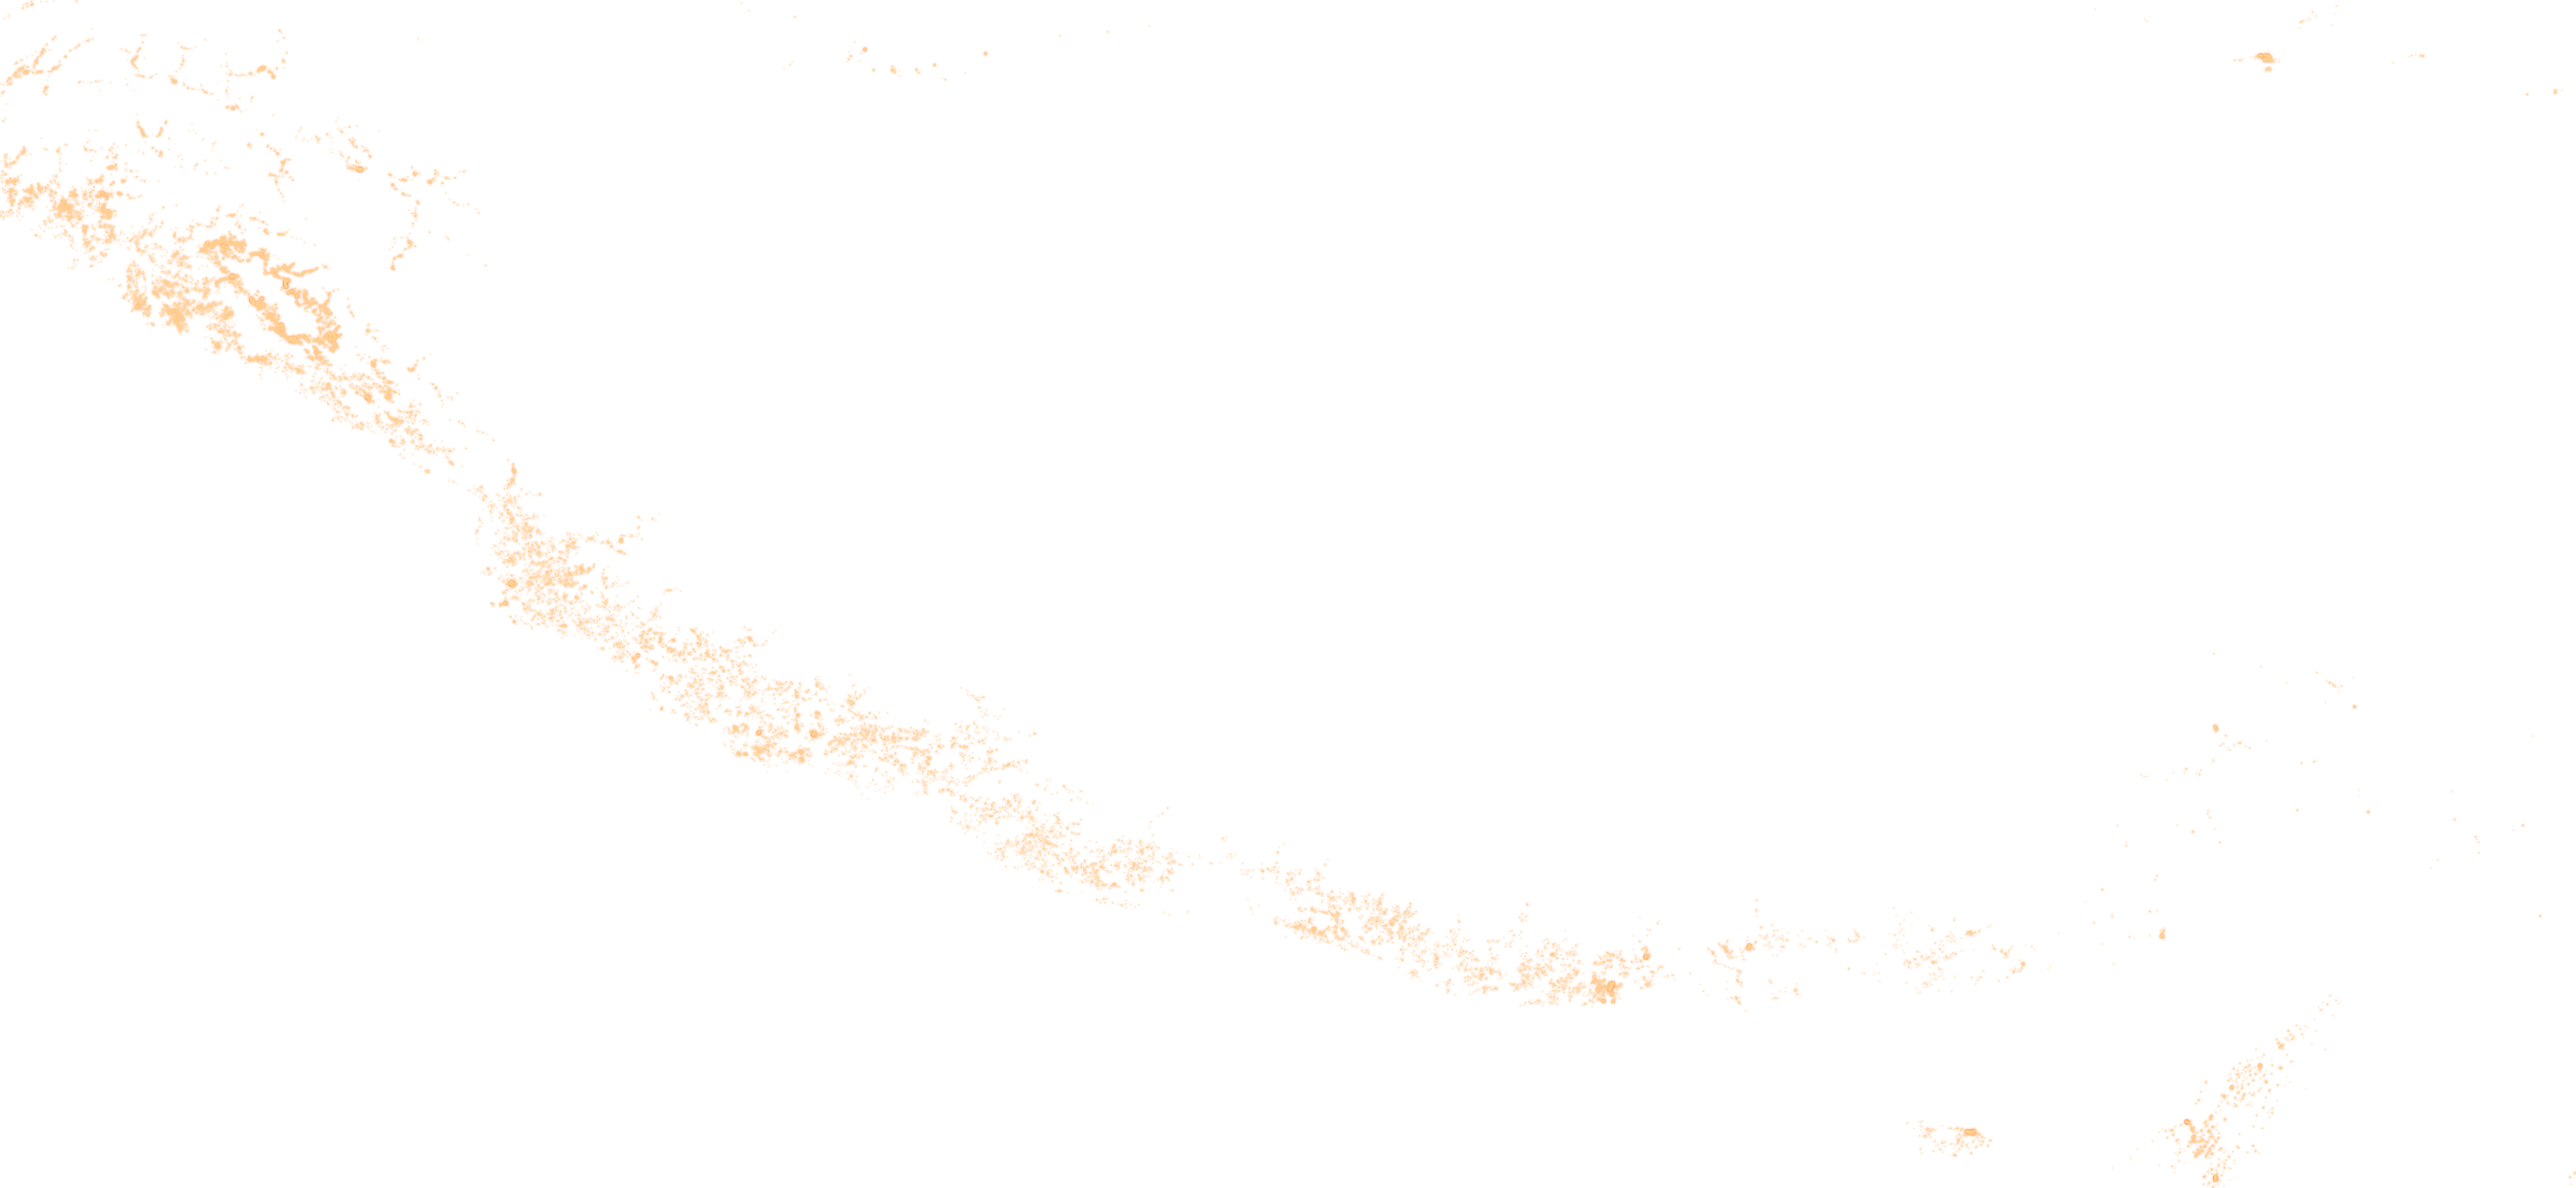
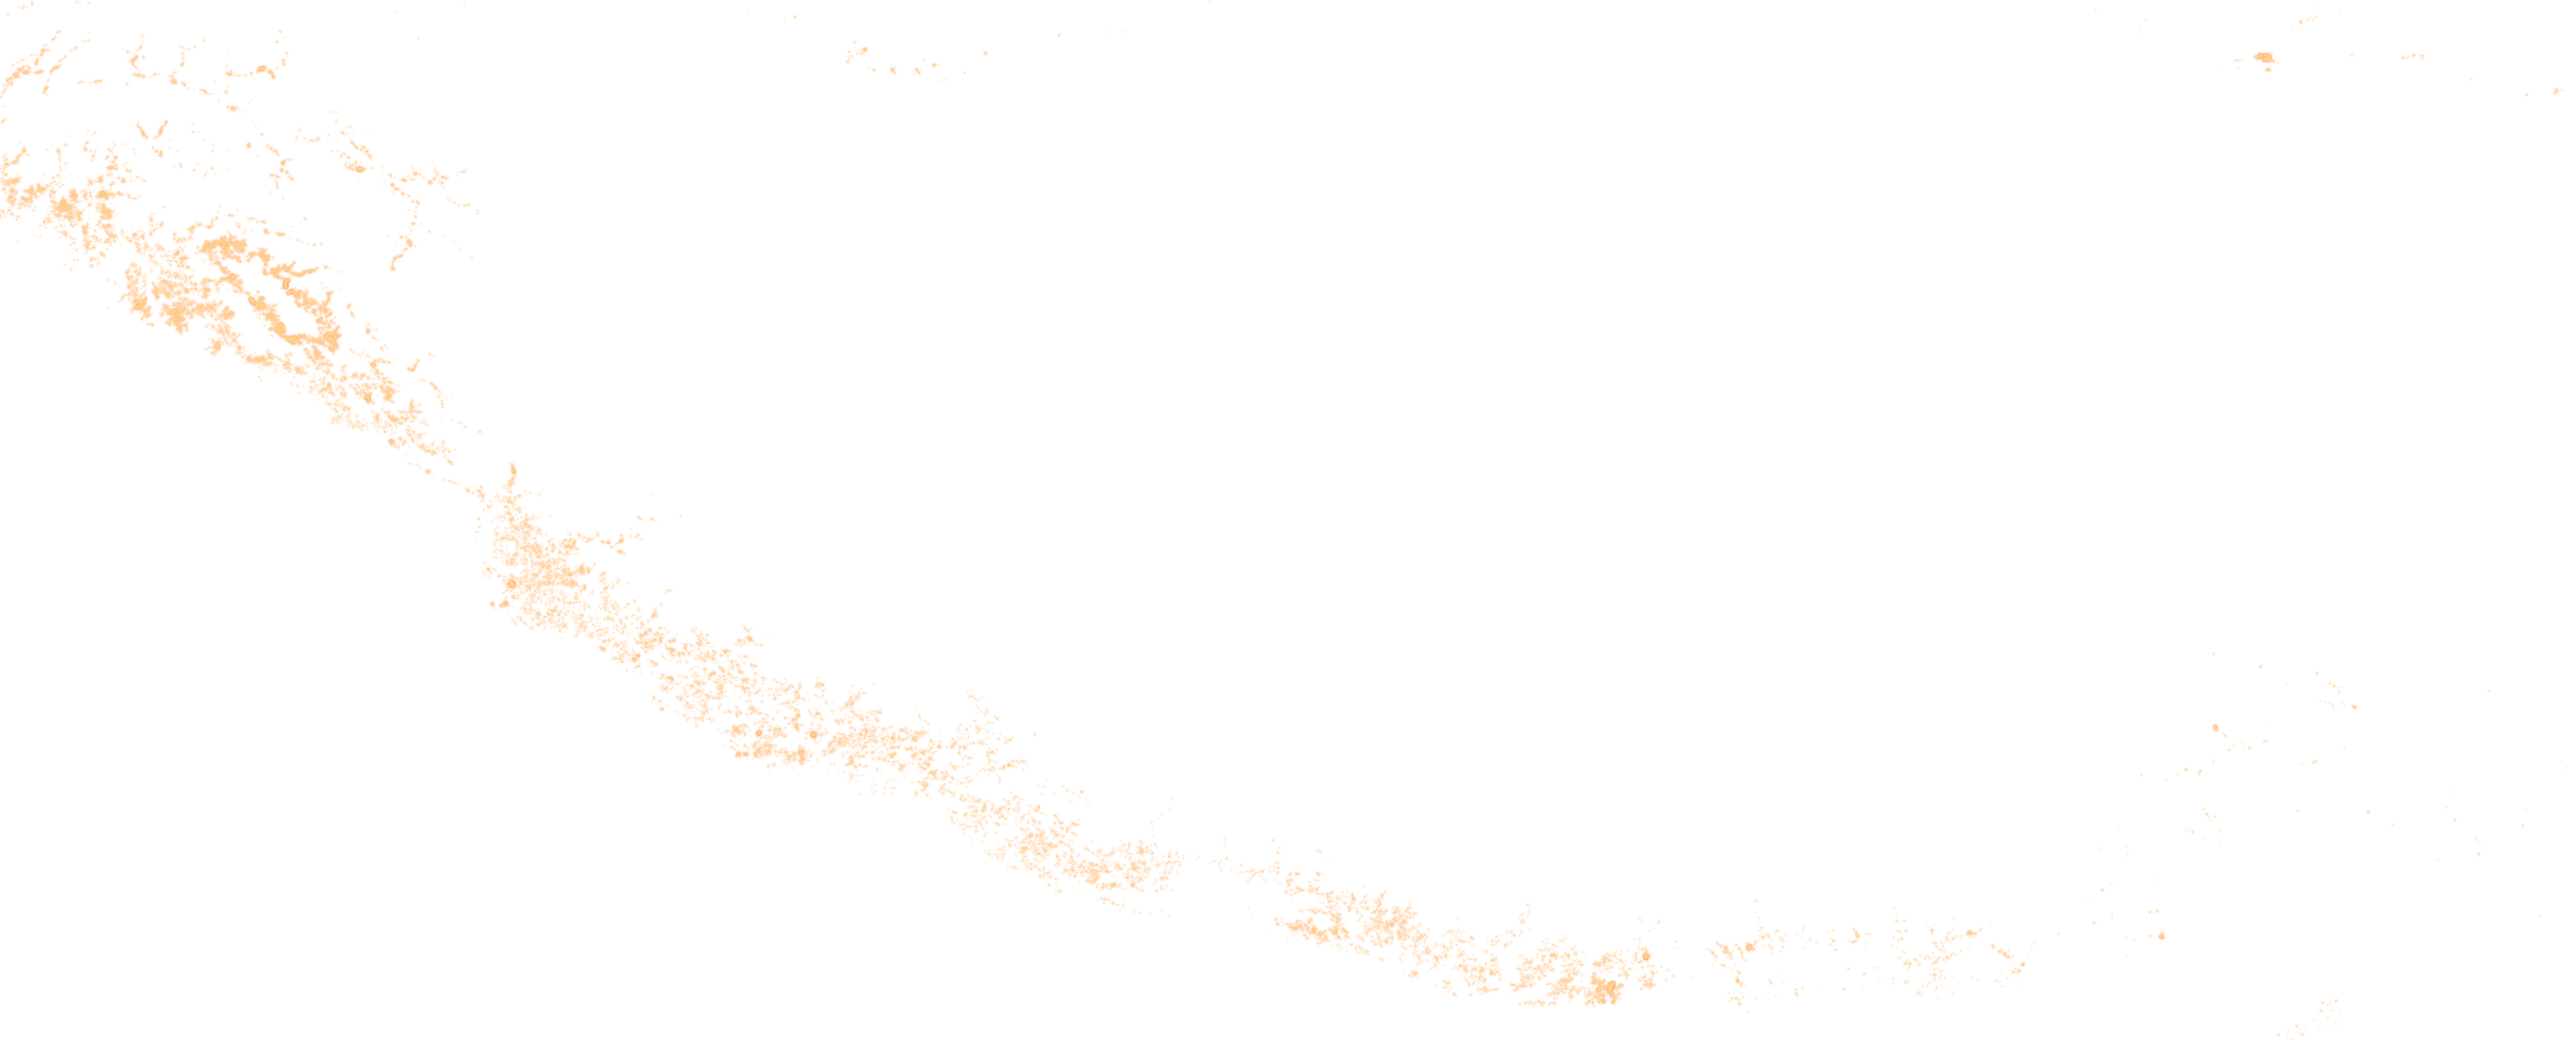
Lamplight's night reaches the plains' south and west, so it fades where lights are sparse [skip ci]
The land picture now covers 70-97E, 23-37N and fades into the globe's own night over 2 degrees in the
west and south and 3 in the east and north: the plains' 500 m lights meet the globe's softer ones
gradually instead of across the Gangetic plain, and the close-up picture's edges lie inside it. The
lamps and the alpenglow keep to the Himalaya (72-98E, 26.5-37N; west of 77.5E north of 29.5N).

Claude-Session: https://claude.ai/code/session_01BAtsk87vtwCYG5dwYz2JNR

diff --git a/Prototypes/lamplight/bounds.js b/Prototypes/lamplight/bounds.js
@@ -1,2 +1,2 @@
 // written by tools/lamplight/build.py: each picture's [west, south, east, north]
-window.LAMPLIGHT_BOUNDS = {"crown": [74.0, 27.0, 89.0, 36.5], "detail": [77.5, 26.3, 92.5, 31.5], "glow": [72.0, 25.0, 98.0, 37.0], "lamps-1": [72.0, 25.0, 98.0, 37.0], "lamps-2": [72.0, 25.0, 98.0, 37.0], "lamps-3": [72.0, 25.0, 98.0, 37.0], "land": [72.0, 25.0, 98.0, 37.0], "pool": [60.0, 12.0, 109.0, 49.0]};
+window.LAMPLIGHT_BOUNDS = {"crown": [74.0, 27.0, 89.0, 36.5], "detail": [77.5, 26.3, 92.5, 31.5], "glow": [72.0, 26.5, 98.0, 37.0], "lamps-1": [72.0, 26.5, 98.0, 37.0], "lamps-2": [72.0, 26.5, 98.0, 37.0], "lamps-3": [72.0, 26.5, 98.0, 37.0], "land": [70.0, 23.0, 97.0, 37.0], "pool": [60.0, 12.0, 109.0, 49.0]};

diff --git a/tools/lamplight/build.py b/tools/lamplight/build.py
@@ -11,14 +11,16 @@ couldn't. Every picture is drawn in Globe.metal's N_ palette, so it lies on the 
 of it, and on its own equirectangular grid (each column the same span of longitude, each row the same
 span of latitude), as terra.images draws it; the bounds go to Prototypes/lamplight/bounds.js.
 
-  land.jpg + land-alpha    72-98E, 25-37N, 1/150 degree (about 700 m): the land in N_LAND shaded by
+  land.png     70-97E, 23-37N, 1/150 degree (about 700 m): the land in N_LAND shaded by
                moonlight from the south-west (Copernicus GLO-90), snow above about 5100 m lit by it,
                lakes in N_SEA, and NASA's Black Marble 2016 lights (500 m) as the night style draws its
                own (Globe.metal: pow(light, 0.75) towards N_LIGHT, the brightest towards N_CORE). Its
-               edges fade over 4 degrees into the globe's own night (land.png carries the alpha).
+               edges fade into the globe's own night, over 2 degrees in the west and south, 3 in the
+               east and north, so the plains' crisp lights meet the globe's softer ones gradually.
   lamps-1.png  lamps where people live in the hills and mountains (GHSL's population, 2020) below 1500
-  lamps-2.png  m, 1500-3000 m, and above 3000 m: 1/120 degree over the same box. Drawn as an atlas draws
-  lamps-3.png  population, a dot for every 150 people where they live; these pictures from further off
+  lamps-2.png  m, 1500-3000 m, and above 3000 m: 1/120 degree over the Himalaya (72-98E, 26.5-37N, and
+  lamps-3.png  west of 77.5E north of 29.5N: not the Aravallis). Drawn as an atlas draws population, a
+               dot for every 150 people where they live; these pictures from further off
                hold a quarter of them, and the detail all of them, so coming closer lights more. The
                satellite sees the plains' lights and almost none of the hills': these are drawn. The
                plains are left to it (a
@@ -55,7 +57,9 @@ BM = 'https://eoimages.gsfc.nasa.gov/images/imagerecords/144000/'
 DEM = 'https://copernicus-dem-90m.s3.amazonaws.com/'
 GHSL = ('https://jeodpp.jrc.ec.europa.eu/ftp/jrc-opendata/GHSL/GHS_POP_GLOBE_R2023A/'
         'GHS_POP_E2020_GLOBE_R2023A_4326_3ss/V1-0/tiles/')
-BOX = (72.0, 25.0, 98.0, 37.0)            # where the elevation model and the people are read
+LAND = (70.0, 23.0, 97.0, 37.0)           # where the night is drawn closer (the elevation model's reach)
+LAND_FADE = (2.0, 2.0, 3.0, 3.0)          # how far its edges fade into the globe's night: W, S, E, N
+BOX = (72.0, 26.5, 98.0, 37.0)            # the Himalaya: where the lamps and the alpenglow are
 DETAIL = (77.5, 26.3, 92.5, 31.5)
 CROWN = (74.0, 27.0, 89.0, 36.5)          # every peak above 7000 m in the box
 POOL = (60.0, 12.0, 109.0, 49.0)
@@ -209,13 +213,15 @@ def night_land(z, ppd, lat0, colour, grey):
     return with_lights(rgb, grey)
 
 
-def box_weight(shape, bounds, inner, feather):
-    """1 inside inner (west, south, east, north), falling to 0 over feather degrees, on bounds' grid."""
+def box_weight(shape, bounds, inner, fade):
+    """1 inside inner (west, south, east, north), falling to 0 at its edges over fade degrees (one
+    number, or west, south, east, north), on bounds' grid."""
     w, s, e, n = bounds
+    fw, fs, fe, fn = fade if np.ndim(fade) else (fade,) * 4
     lon = w + (np.arange(shape[1]) + .5) / shape[1] * (e - w)
     lat = n - (np.arange(shape[0]) + .5) / shape[0] * (n - s)
-    fx = np.minimum(smoothstep(inner[0], inner[0] + feather, lon), 1 - smoothstep(inner[2] - feather, inner[2], lon))
-    fy = np.minimum(smoothstep(inner[1], inner[1] + feather, lat), 1 - smoothstep(inner[3] - feather, inner[3], lat))
+    fx = np.minimum(smoothstep(inner[0], inner[0] + fw, lon), 1 - smoothstep(inner[2] - fe, inner[2], lon))
+    fy = np.minimum(smoothstep(inner[1], inner[1] + fs, lat), 1 - smoothstep(inner[3] - fn, inner[3], lat))
     return np.outer(fy, fx).astype(np.float32)
 
 
@@ -243,7 +249,7 @@ def lamps(cache):
     tiles = ghsl_tiles(cache)
     rng = np.random.default_rng(1983)
     out = []
-    w, s, e, n = [int(v) for v in BOX]
+    w, s, e, n = int(BOX[0]), int(math.floor(BOX[1])), int(BOX[2]), int(BOX[3])
     for lat in range(s, n):
         for lon in range(w, e):
             z = dem_tile(cache, lat, lon)
@@ -264,7 +270,10 @@ def lamps(cache):
             jx, jy = rng.random(len(r)), rng.random(len(r))
             out.append(np.column_stack([lon - 1 / 2400 + (c + jx) / 1200, lat + 1 + 1 / 2400 - (r + jy) / 1200,
                                         0.55 + 0.45 * rng.random(len(r)), z[r, c], rng.random(len(r)) < FAR]))
-    return np.concatenate(out)
+    L = np.concatenate(out)
+    # the Himalaya only (not the Aravallis, the Shillong plateau or the hills of central India), its
+    # foothills reaching about 29.5N west of 77.5E
+    return L[(L[:, 1] >= BOX[1]) & ((L[:, 0] >= 77.5) | (L[:, 1] >= 29.5))]
 
 
 def splat(L, bounds, ppd, gain=1.9, core_sigma=0.5, halo_sigma=1.5, halo_w=0.06):
@@ -303,10 +312,10 @@ def lamp_list(cache):
 
 def step_land(cache):
     ppd = 150
-    z = elevation(cache, BOX, ppd)
-    rgb = night_land(z, ppd, BOX[3], black_marble(cache, BOX, ppd), black_marble(cache, BOX, ppd, grey=True))
-    save_png(rgb, box_weight(z.shape, BOX, BOX, 4.0), OUT / 'land.png')
-    return {'land': list(BOX)}
+    z = elevation(cache, LAND, ppd)
+    rgb = night_land(z, ppd, LAND[3], black_marble(cache, LAND, ppd), black_marble(cache, LAND, ppd, grey=True))
+    save_png(rgb, box_weight(z.shape, LAND, LAND, LAND_FADE), OUT / 'land.png')
+    return {'land': list(LAND)}
 
 
 def step_lamps(cache):
@@ -323,7 +332,7 @@ def step_lamps(cache):
 
 def step_glow(cache):
     ppd = 120
-    z = elevation(cache, BOX, ppd)
+    z = elevation(cache, (72, 26, 98, 37), ppd)[round(0.5 * ppd):]
     sun = hillshade(z, ppd, BOX[3], SUN_AZ, SUN_ALT, 1.3)
     glow = smoothstep(4800, 6000, z) * smoothstep(0.12, 0.6, sun)
     glow = np.clip(glow + 0.7 * ndimage.gaussian_filter(glow, 1.5), 0, 1)     # and its bloom
@@ -357,12 +366,12 @@ def step_pool(cache):
     sea = ndimage.gaussian_filter((lum < 0.03).astype(np.float32), 1.0)
     rgb = mix(N_LAND, N_SEA, sea) * np.ones((H, W, 1), np.float32)
     # the land's relief where the elevation model reaches, as the land picture draws it
-    z40 = Image.fromarray(elevation(cache, BOX, 40)).resize((round((BOX[2] - BOX[0]) * ppd), round((BOX[3] - BOX[1]) * ppd)), Image.BILINEAR)
-    x0, y0 = round((BOX[0] - w) * ppd), round((n - BOX[3]) * ppd)
+    z40 = Image.fromarray(elevation(cache, LAND, 40)).resize((round((LAND[2] - LAND[0]) * ppd), round((LAND[3] - LAND[1]) * ppd)), Image.BILINEAR)
+    x0, y0 = round((LAND[0] - w) * ppd), round((n - LAND[3]) * ppd)
     za = np.asarray(z40)
     sub = (slice(y0, y0 + za.shape[0]), slice(x0, x0 + za.shape[1]))
-    land = night_land(za, ppd, BOX[3], colour[sub], np.zeros_like(za))
-    wgt = box_weight(za.shape, BOX, BOX, 0.8)
+    land = night_land(za, ppd, LAND[3], colour[sub], np.zeros_like(za))
+    wgt = box_weight(za.shape, LAND, LAND, 0.8)
     rgb[sub] = mix(rgb[sub], land, wgt)
     rgb = with_lights(rgb, grey)
     # the ring, by great-circle distance from the centre: twilight violet, then the sunset's apricot
